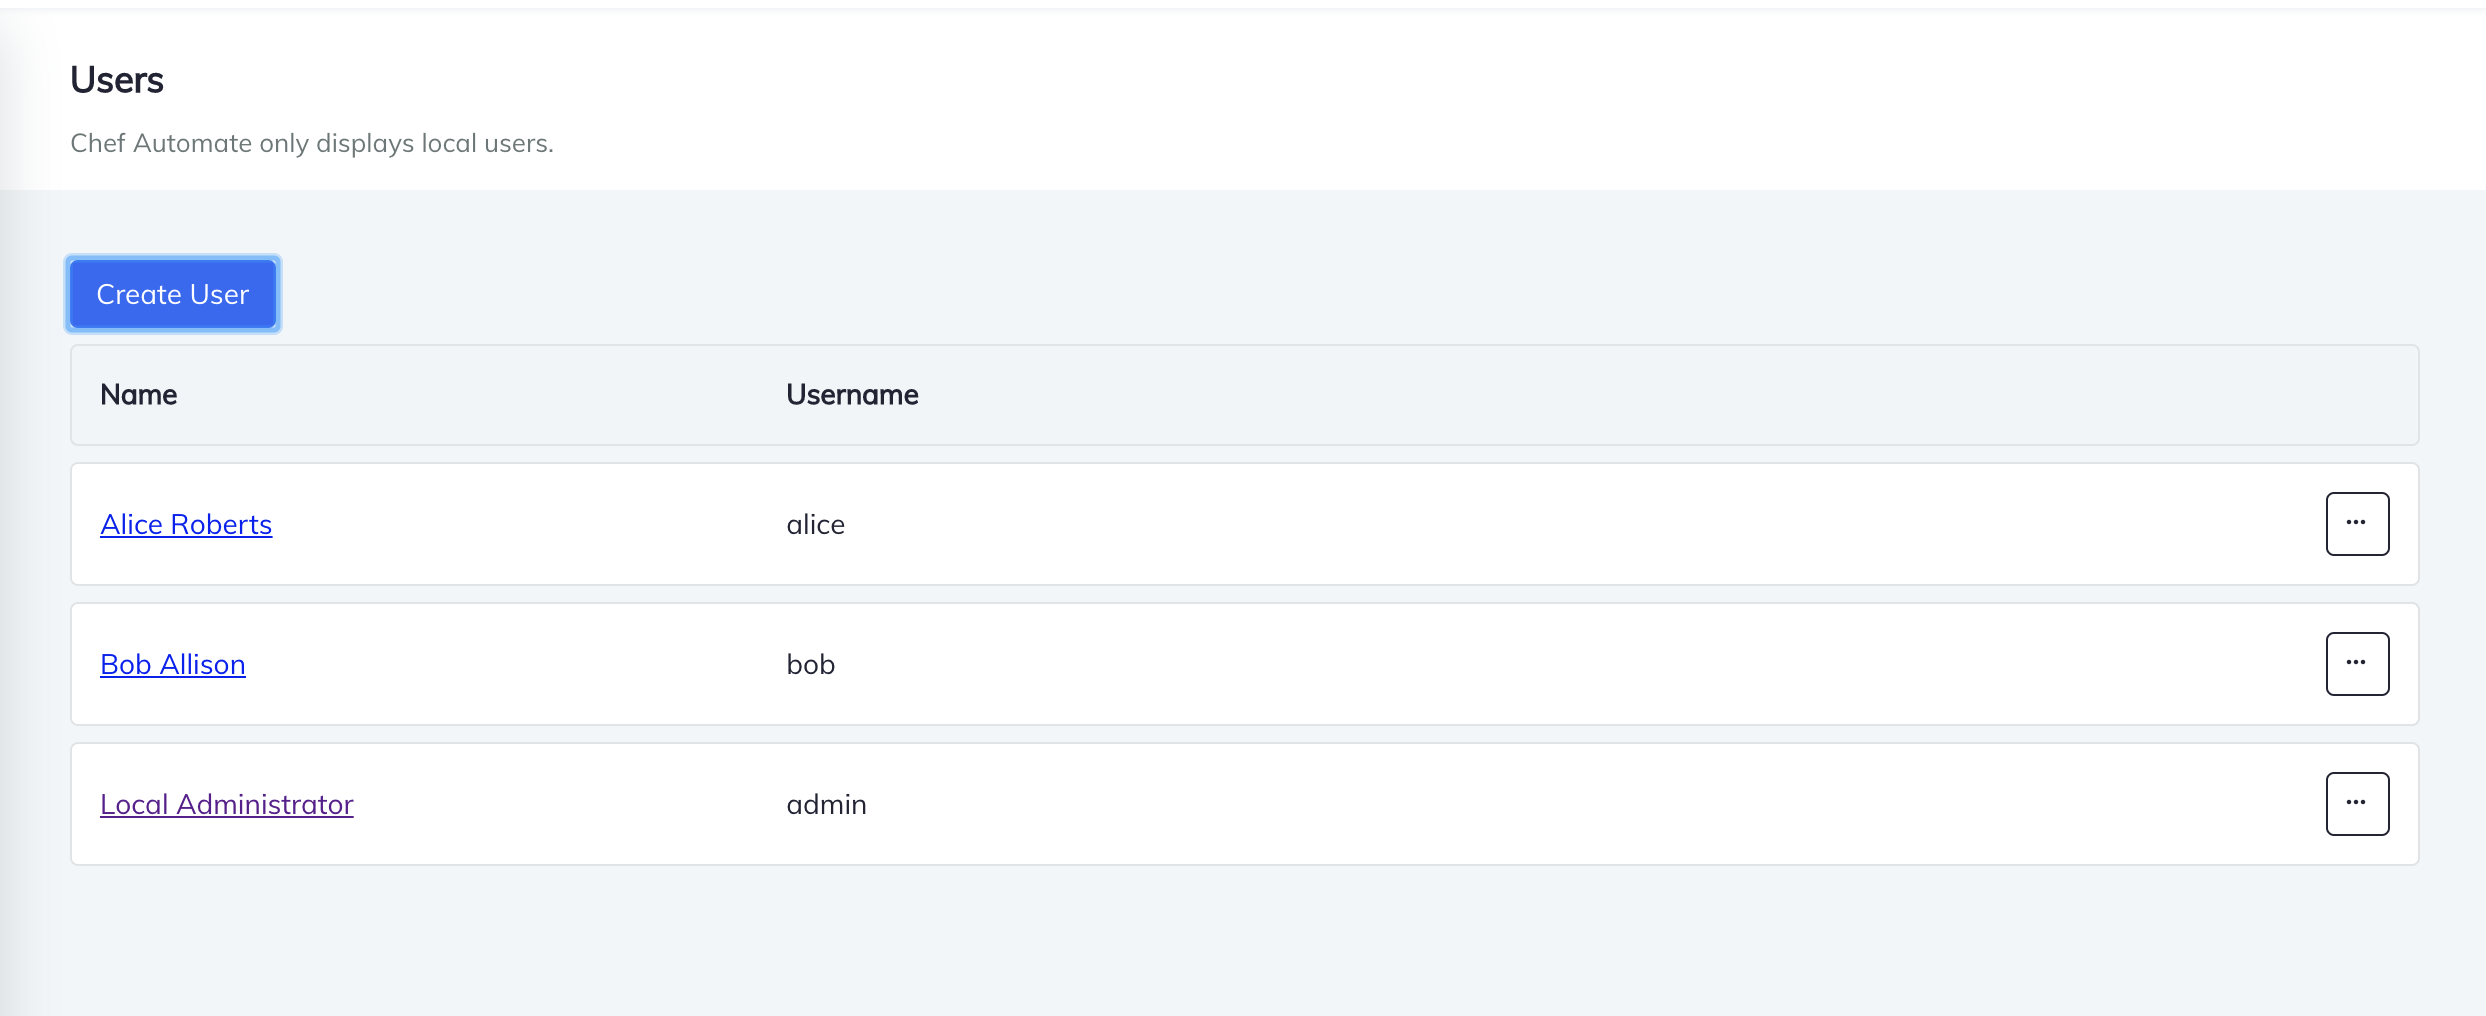
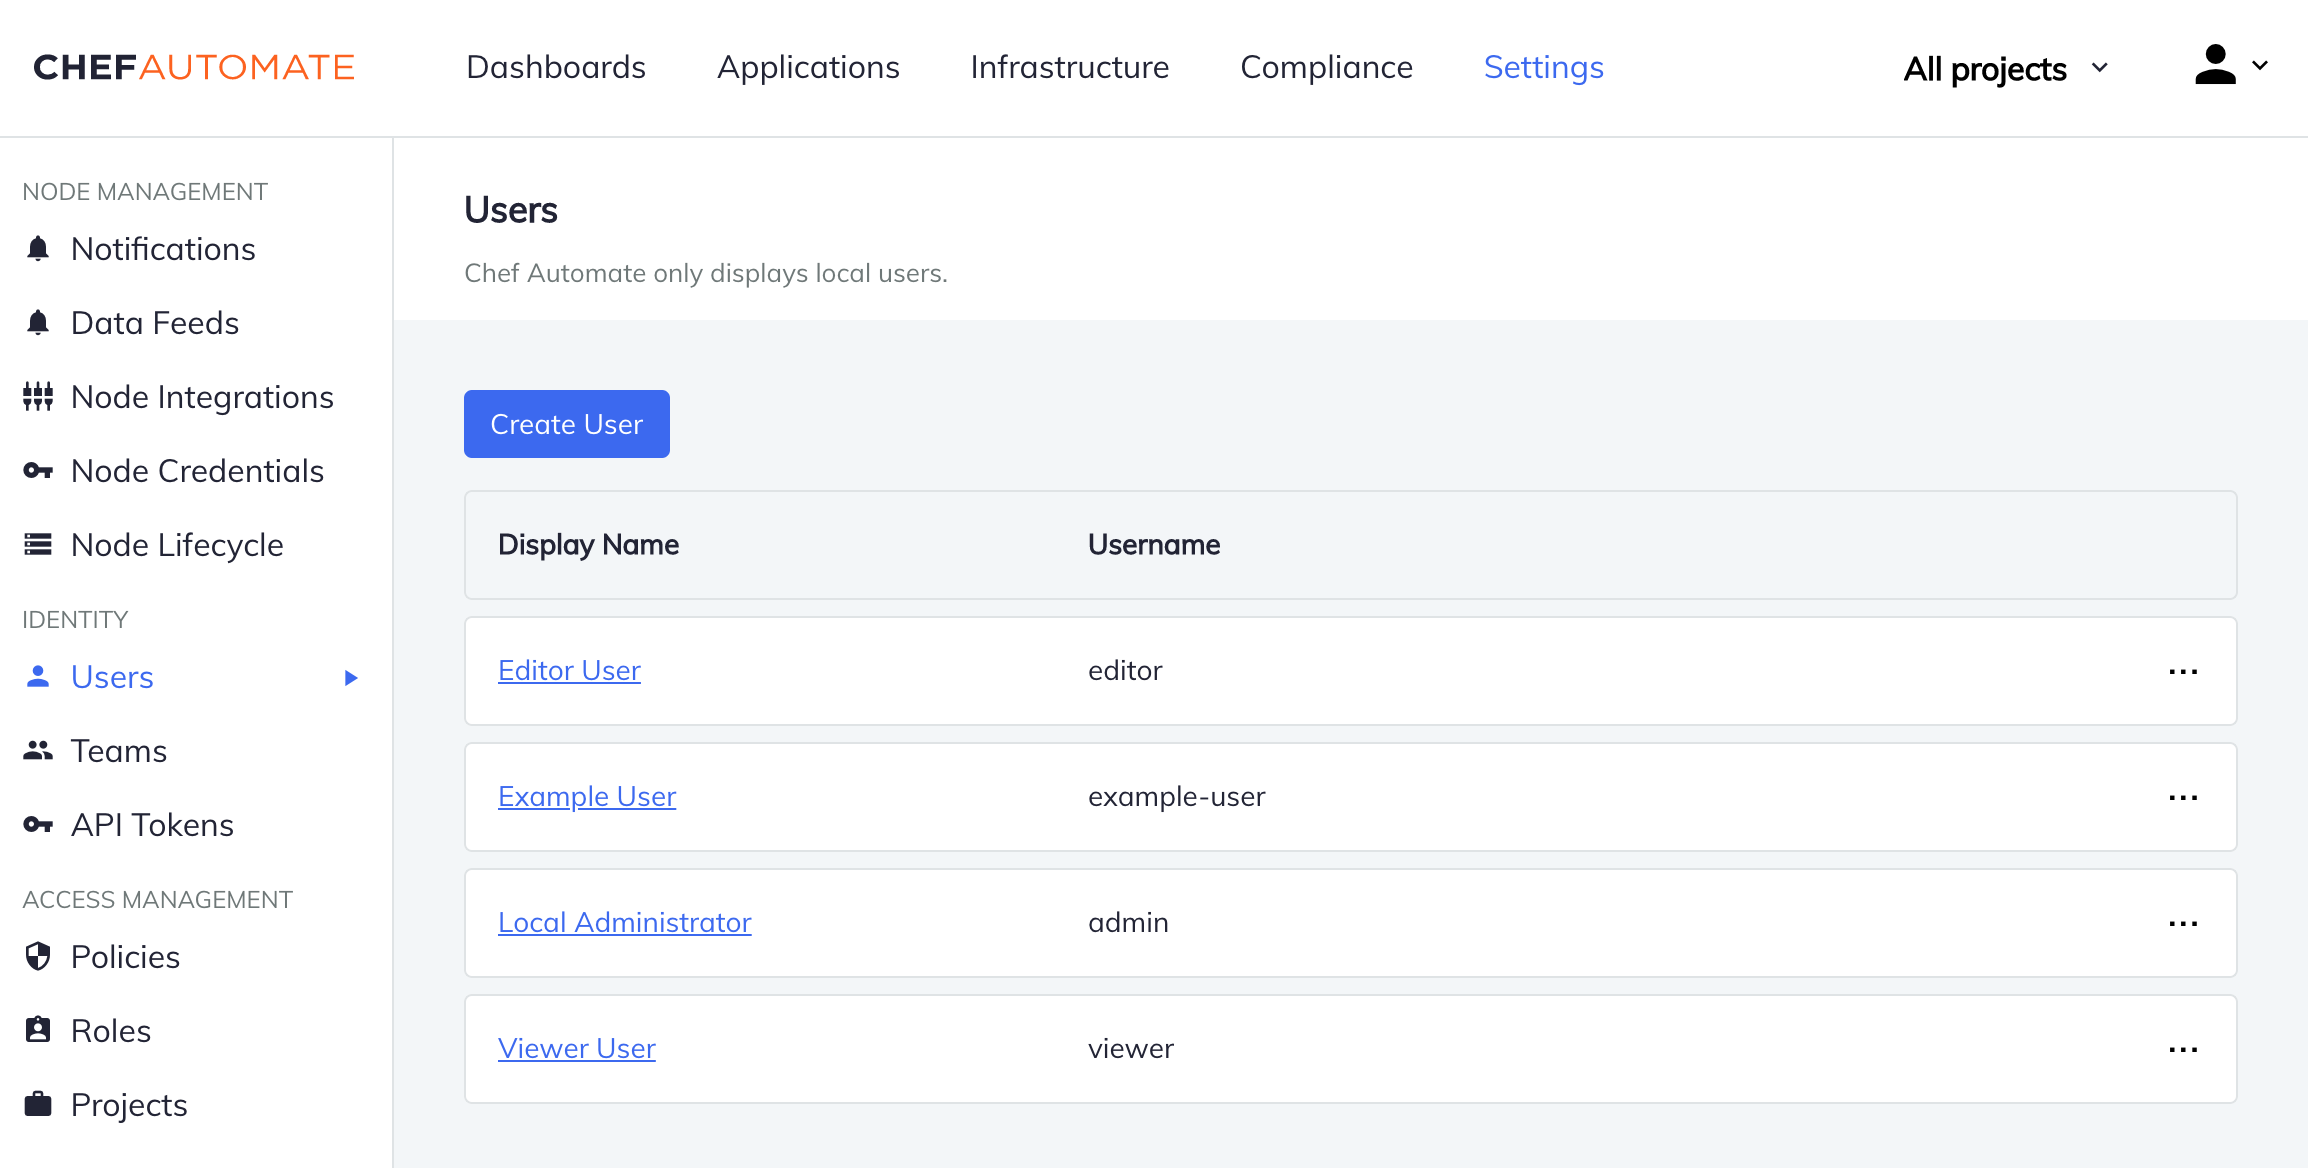
change users content to iam v2

diff --git a/components/automate-chef-io/content/docs/users.md b/components/automate-chef-io/content/docs/users.md
@@ -11,113 +11,42 @@ toc = true
     weight = 50
 +++
 
-{{< info >}}
-This content is specific to IAM v1. See [IAM v2 Overview]({{< ref "iam-v2-overview.md#" >}}) for IAM v2 specific information.
-{{< /info >}}
-
-This guide will show you how to manage Chef Automate users. Import existing users into Chef Automate with [Microsoft AD (LDAP)]({{< ref "configuration.md#microsoft-active-directory" >}}), [generic LDAP]({{< ref "configuration.md#ldap" >}}) or [SAML]({{< ref "configuration.md#saml" >}}).
-
-You can create local Chef Automate users that can log in and interact with the system independent of LDAP or SAML.
-
-## Prerequisites
-
-You will need administrative access to interact with users other than yourself. An existing administrative user can provide that access. If you are already an administrative user, you can [create users in the UI]({{< relref "#with-the-browser" >}}) by logging into Chef Automate with your admin credentials.
-
-## Users
+## Overview
 
 Chef Automate supports three different types of users: local users, [LDAP users]({{< relref "ldap.md" >}}), and [SAML users]({{< relref "configuration.md#saml" >}}). Manage local users from the **Settings** tab.
 
-### Manage Local Users from the UI
+Local users can sign in and interact with the system independent of LDAP or SAML.
 
-Navigate to _Users_ in the **Settings** tab.
+Permission on the `iam:users` resource is required to interact with users other than yourself. Any user that is part of the `admins` team will have this permission, otherwise, [IAM v2 custom policies]({{< relref "iam-v2-guide.md#creating-custom-policies" >}}) can be created to assign this permission.
 
-To add a local user, use the **Create User** button, which opens a helper window for entering the user's _full name_, a unique _username_, _password_ and _confirm password_.
-Once you've filled in the information, use the **Save and Close** button.
+## Managing Local Users
+
+### Creating Local Users
+
+Navigate to _Users_ in the **Settings** tab. Then use the **Create User** button, which opens a helper window for entering the user's _display name_, a unique _username_, _password_, and _password confirmation_.
 
 ![Add Local User](/images/docs/admin-tab-users-list.png)
 
-To change or delete a user account, select their name from the _Users_ page. You can also delete users from the _Users_ page by using the menu at the end of the table row.
+### Deleting Local Users
 
-![Modify Local User](/images/docs/admin-tab-user-edit.png)
+Navigate to _Users_ in the **Settings** tab. Then open the menu at the end of the table row and select **Delete User**.
 
-### Manage Local Users from the Command Line with cURL
+### Resetting Passwords
 
-Before you follow these instructions, we recommend you install the JSON processor [jq](https://stedolan.github.io/jq/) to ensure readable output. Without it, some commands may need to be modified.
+Navigate to _Users_ in the **Settings** tab and locate the user who needs a password reset. Navigate to their user page, and then the **Reset Password** tab. Provide a new password and confirm the new password, then select the **Reset Password** button.
 
-To interact with the user API using cURL, fetch an admin API token available from the `chef-automate` CLI, and set it to a usable variable:
+All local users can also reset their own passwords.
 
-```bash
-export TOKEN=`chef-automate admin-token`
-```
+### Changing Display Names
 
-#### Create a User
+Navigate to _Users_ in the **Settings** tab and locate the user who needs their display name changed. Navigate to their user page, provide a new display name and select the **Save** button.
 
-To create a Chef Automate user, you'll need a name, username, and password.
-The username must be unique.
+All local users can also change their own display names.
 
-```bash
-curl -H "api-token: $TOKEN" -H "Content-Type: application/json" -d '{"name":"Your Name", "username":"username001rulez", "password":"password"}' https://{{< example_fqdn "automate" >}}/api/v0/auth/users?pretty
-```
+## User Self-Maintenance
 
-#### Fetching Users
-
-You can fetch a single user by username. Keep in mind that certain characters
-in a username (such as a space) may need to be escaped in the URL.
-
-```bash
-curl -H "api-token: $TOKEN" https://{{< example_fqdn "automate" >}}/api/v0/auth/users/username001rulez?pretty
-```
-
-More generally, here is the format showing a `{username}` placeholder:
-
-```bash
-curl -H "api-token: $TOKEN" https://{{< example_fqdn "automate" >}}/api/v0/auth/users/{username}?pretty
-```
-
-You can also fetch a list of all users by omitting the final username segment of the URL:
-
-```bash
-curl -H "api-token: $TOKEN" https://{{< example_fqdn "automate" >}}/api/v0/auth/users?pretty
-```
-
-#### Updating Users
-
-You can update a user's full name (`name` property) and/or password (`password` property).
-To identify the proper user record, supply the username in the URL _and_ the user's `id` in the payload.
-Then, also in the payload, you must specify the full name--_even if you do not want to change it!_
-Finally, include the password in the payload, but only if you do want to change it.
-
-```bash
-curl -X PUT -H "api-token: $TOKEN" -H "Content-Type: application/json" -d '{"name":"Revised Full Name", "id": "userID", "password": "another_pwd"}' https://{{< example_fqdn "automate" >}}/api/v0/auth/users/{username}?pretty
-```
-
-A non-admin user is also able to change their own password through the UI.
-For completeness, here is the API call to perform the same action.
-
-```bash
-curl -X PUT -H "api-token: $TOKEN" -H "Content-Type: application/json" -XPUT -d'{"id":"userID","name":"Revised Full Name","username":"username001rulez","password":"another_pwd","previous_password":"password"}' https://{{< example_fqdn "automate" >}}/api/v0/users/{username}?pretty
-```
-
-### Deleting Users
-
-To delete a user, supply the `username`:
-
-```bash
-curl -X DELETE -H "api-token: $TOKEN" -H "Content-Type: application/json" https://{{< example_fqdn "automate" >}}/api/v0/auth/users/{username}?pretty
-```
-
-### User Self-Maintenance
-
-Local Automate users can manage their own name and password through the Chef Automate user interface.
+Local Automate users can manage their own display name and password.
 Select the user icon in the top navigation bar,
 then select **Profile** from the drop-down.
 
 ![Navigate to user profile](/images/docs/user-profile-navigation.png)
-
-The sidebar should reflect **Your Profile** as the active panel,
-and you should see your user name,
-your avatar (if your username is your email address), and your full name.
-Use the **Edit** button to edit your full name,
-while the lower portion of the page allows you to update your password.
-
-![View user details](/images/docs/user-profile-view.png)
